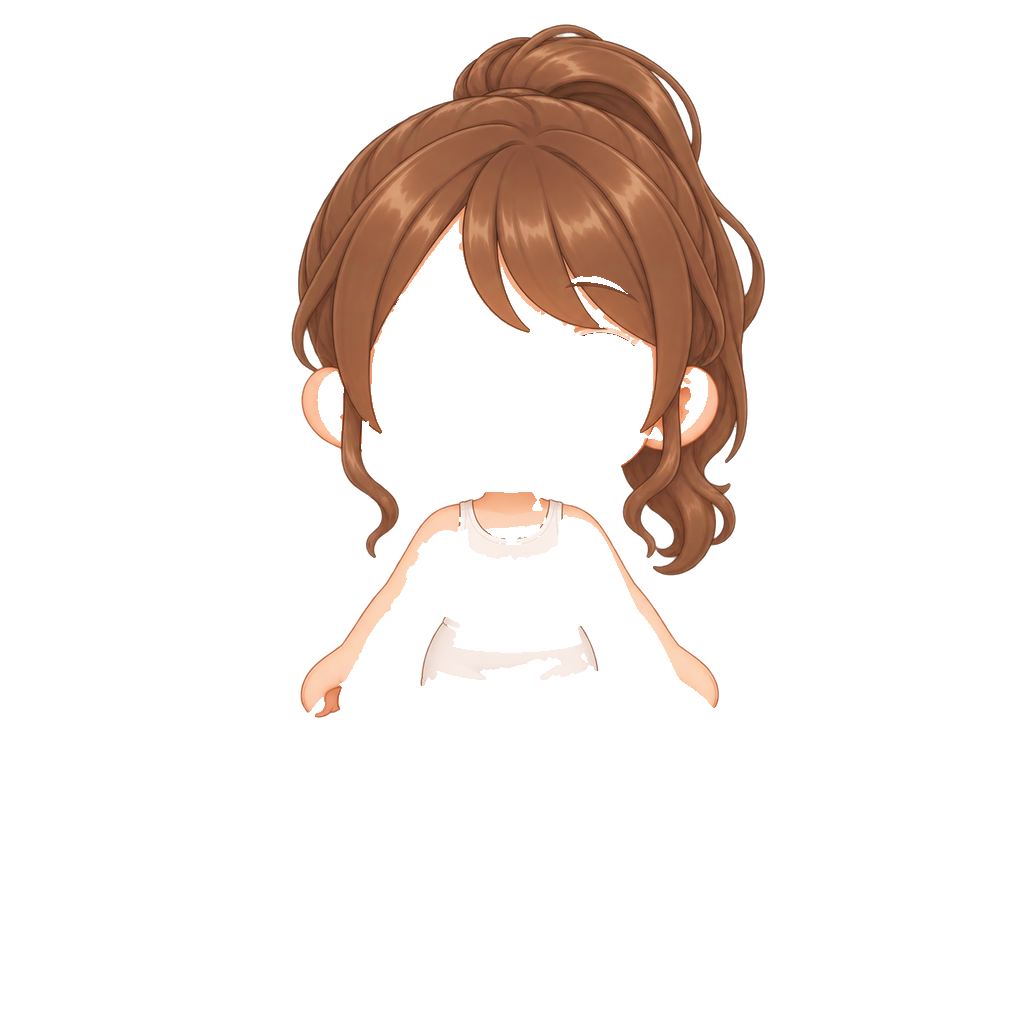
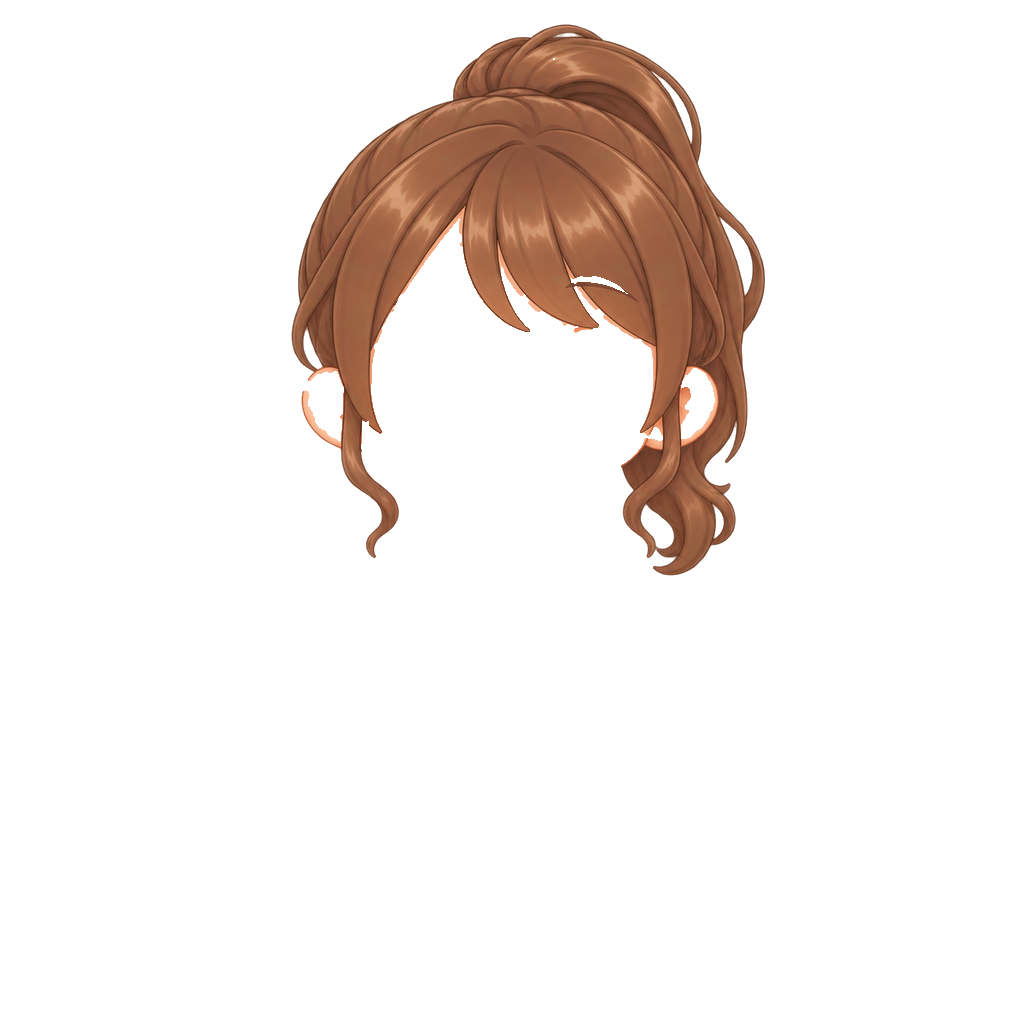
fix(iq2): 前髪レイヤーの残留画素（肌・インナー）を除去
Claude-Session: https://claude.ai/code/session_01NXuBE3U4UAebXMPco3J5UQ

diff --git a/app/lib/avatar/catalog.ts b/app/lib/avatar/catalog.ts
@@ -114,7 +114,7 @@ export const OUTFIT_READY = new Set(["knight_default__f","mage_default__f","arch
 export const OUTFIT_HAS_BACK = new Set<string>([]);
 
 /** 画像差し替え時にブラウザキャッシュを無効化するためのバージョン */
-export const ASSET_V = "3";
+export const ASSET_V = "4";
 
 export function resolveLayers(c: AvatarConfig, job: JobKey): { layer: Layer; src: string | null; missing: boolean }[] {
     const g = GEAR[job];

diff --git a/tools/avatar_hair.py b/tools/avatar_hair.py
@@ -56,8 +56,21 @@ R=place_back(right,sF); sR=sF
 def hair_only(img):
     A=np.array(img).astype(int); same=vis&(np.abs(A[:,:,:3]-B[:,:,:3]).sum(axis=2)<70)
     al=A[:,:,3].copy(); al[same]=0
+    # 髪色でない画素（肌・白インナー・腕の縁）は前髪レイヤーに入れない
+    r,g,b_=A[:,:,0],A[:,:,1],A[:,:,2]
+    skin=(r>185)&(g>140)&(b_>115)&(r-b_>20)&(r-b_<95)&(g>=b_)&(r>=g); white=(r>225)&(g>220)&(b_>210)
+    hairish=(np.abs(r-g)>12)|(r<150)
+    al[skin|white|~hairish]=0
     m=ndimage.binary_opening(al>40,iterations=2); lab,k=ndimage.label(m)
-    if k: sizes=ndimage.sum(m,lab,range(1,k+1)); keep=np.isin(lab,[i+1 for i,s in enumerate(sizes) if s>1500]); al[~keep]=0
+    if k:
+        ids=[]
+        for i in range(1,k+1):
+            comp=lab==i; area=comp.sum()
+            if area<1500: continue
+            ys,xs=np.where(comp); fill=area/((ys.max()-ys.min()+1)*(xs.max()-xs.min()+1))
+            if area<12000 and fill<0.35: continue   # 細い弧（耳の縁取り）
+            ids.append(i)
+        al[~np.isin(lab,ids)]=0
     out=img.copy(); out.putalpha(Image.fromarray(al.astype("uint8")).filter(ImageFilter.MedianFilter(3))); return out
 front=hair_only(F)
 # 後ろ髪：後ろ姿画像のうち、正面髪で覆われていない部分（素体の頭の内側は除く＝素体で隠れるので不要）
